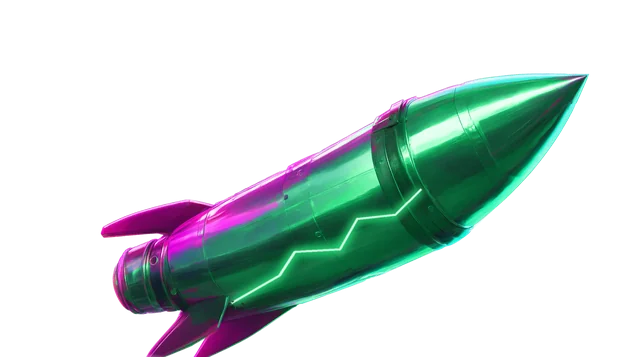
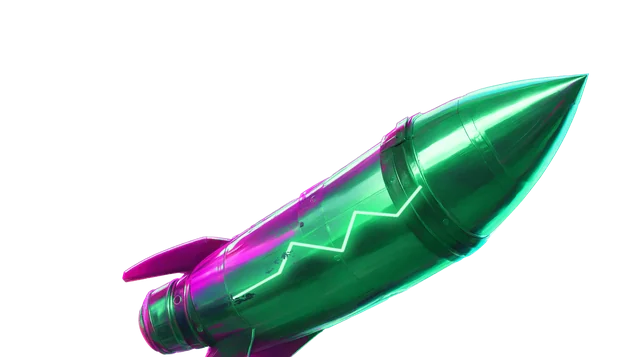
Prototype: a straight rocket axis, joy at x2
The rocket's axis now runs from the nose tip to the centre of the nozzle's rear face, picked
on the pictures. The line fitted on the nose and carried back missed the nozzle (the
generator's hull bends a little in perspective and its nozzle is cut by the picture's edge),
so the flame came out of the nozzle's lower rim and the rocket looked crooked; the empty
rocket now lies on the same axis too (4.7 degrees of turn instead of 10).

The bear raises his fist at x2 (JOY_X) instead of 1.25.

Changed region(s): [[0.1562, 0.1849, 0.9375, 1.0]]

diff --git a/app/proto/scene2.js b/app/proto/scene2.js
@@ -164,7 +164,7 @@ function drawCanopy(g,open,t,hands,top,size){hands=hands||HANDS;top=top||[5,-96]
 
 /* ---------------- the scene ---------------- */
 const BU=.22,RIDE_LEN=160;   // RIDE_LEN: the riding picture's rocket, nozzle to tip, in rocket units
-const ANG={pad:-1,fly:-.76};
+const ANG={pad:-1,fly:-.76},JOY_X=2;   // JOY_X: the multiplier where the bear raises his fist
    // rocket units per pixel of the painted bear pictures (its head about as wide as the rocket)
 function create(cv,opts){
   const ctx=cv.getContext('2d');
@@ -327,7 +327,7 @@ function create(cv,opts){
     const mood=st.phase==='stall'?'scared':st.phase==='wait'?'calm':st.m>1.3?'hype':'calm';
     const pose=st.phase==='stall'?'scared':st.phase==='fly'?(st.m>1.6?'cheer':'grip'):'grip';
     bear.update(dt,t,pose,mood);
-    let face=st.phase==='stall'?'scared':st.phase==='fly'&&st.m>=1.25?'hype':'calm';if(KIT.ride&&!KIT.ride.faces.includes(face))face=st.face||'calm';
+    let face=st.phase==='stall'?'scared':st.phase==='fly'&&st.m>=JOY_X?'hype':'calm';if(KIT.ride&&!KIT.ride.faces.includes(face))face=st.face||'calm';
     if(face!==st.face){st.facePrev=st.face||face;st.face=face;st.faceT=st.phase==='wait'?1:0;
       // the riding pictures change pose inside a motion: a dip, a kick up (the swap happens here), a settle
       if(KIT.ride&&st.phase==='fly')st.pop={t:0,sparked:false}}

diff --git a/app/proto/index.html b/app/proto/index.html
@@ -39,7 +39,7 @@ html,body{height:100%;margin:0;background:#07040f;color:var(--text);font:14px/1.
     <div class="note">Прототип новой графики: раунды идут сами. «Забрать» в полёте — катапульта с парашютом.</div>
   </div>
 </div>
-<script src="scene2.js?v=5"></script>
+<script src="scene2.js?v=6"></script>
 <script>
 (()=>{
 const $=id=>document.getElementById(id),cv=$('cv'),stage=$('stage'),scene=Scene2.create(cv,{kit:"../art/bear/"});

diff --git a/art-kits/tools/bear_kit.py b/art-kits/tools/bear_kit.py
@@ -175,25 +175,6 @@ def restore_convex(src, cut, x0):
     return Image.fromarray(c, 'RGBA')
 
 
-def rocket_axis(cut, tip, guess_tail):
-    """The rocket's true axis in a riding picture: the middle between the upper and the lower edge of the free nose,
-    fitted with a line and carried back. Returns the tail point (axis at the nozzle), the tip and the angle."""
-    A = np.asarray(cut)[..., 3] > 128
-    tip, n0 = np.array(tip, float), np.array(guess_tail, float)
-    L = np.linalg.norm(tip - n0); u = (tip - n0) / L; n = np.array([-u[1], u[0]])
-    def edge(P, s, sign):
-        p = P + u * s; d = 0
-        while d < 320:
-            x, y = p + n * d * sign
-            if x < 0 or y < 0 or x >= A.shape[1] or y >= A.shape[0] or not A[int(y), int(x)]: break
-            d += 1
-        return d
-    ss = list(range(int(L * .64), int(L * .94), 10))
-    k, c = np.polyfit(ss, [(edge(n0, s, 1) - edge(n0, s, -1)) / 2 for s in ss], 1)
-    tail = n0 + n * c; tip2 = n0 + u * L + n * (k * L + c)
-    return tail, tip2, float(np.arctan2(tip2[1] - tail[1], tip2[0] - tail[0]))
-
-
 def scale(im, k):
     return im.resize((max(1, round(im.width * k)), max(1, round(im.height * k))), Image.LANCZOS)
 
@@ -209,7 +190,10 @@ def fade_bottom(im, frac=.16):
 
 # ---------------- the bear riding the rocket ----------------
 RIDE_K = .32                                     # the riding pictures are made 2000 px wide; the game files are 640
-RIDE_TIP, RIDE_TAIL = (1835, 232), (470, 1010)   # rough nose tip and nozzle in the riding pictures (the axis is fitted)
+# the axis runs from the nose tip to the centre of the nozzle's rear face, picked on the pictures: the generator's hull
+# bends a little in perspective and its nozzle is cut by the picture's edge, so a line fitted on the nose misses the nozzle
+RIDE_TIP, RIDE_TAIL = (1840, 232), (472, 1000)
+EMPTY_TIP, EMPTY_TAIL = (1690, 77), (500, 880)
 BOOT = [(850, 772), (1005, 765), (1068, 795), (1082, 880), (1058, 920), (858, 920), (845, 860)]   # the near boot, on the hull
 GREEN = [(0, (2, 14, 8)), (.1, (4, 48, 27)), (.25, (8, 112, 62)), (.42, (18, 176, 98)), (.6, (60, 230, 140)), (.8, (165, 255, 205)), (1, (240, 255, 248))]
 
@@ -282,7 +266,7 @@ def build_ride(kit):
     if not faces:
         return
     ride = {f: cut_ride(os.path.join(SRC, 'ride-' + f + '.webp')) for f in faces}
-    tail, tip, ang = rocket_axis(ride[faces[0]], RIDE_TIP, RIDE_TAIL)
+    tail, tip = np.array(RIDE_TAIL, float), np.array(RIDE_TIP, float); ang = float(np.arctan2(tip[1] - tail[1], tip[0] - tail[0]))
     print('ride axis', tail.round(1), tip.round(1), round(np.degrees(ang), 2), file=sys.stderr)
     for f, im in ride.items():
         scale(greenify(im, tail, tip, BOOT), RIDE_K).save(os.path.join(OUT, 'ride-' + f + '.webp'), 'WEBP', quality=86, method=6)
@@ -292,10 +276,7 @@ def build_ride(kit):
     ep = os.path.join(SRC, 'ride-empty.webp')
     if os.path.exists(ep):
         e = cut_ride(ep)
-        A = np.asarray(e)[..., 3] > 128; ys, xs = np.where(A)
-        tip_g = (xs.max(), ys[xs == xs.max()].mean())
-        tail_g = (xs.min() + 60, ys[xs == xs.min()].mean())       # rough, the axis fit refines it
-        et, ep2, ea = rocket_axis(e, tip_g, tail_g)
+        et, ep2 = np.array(EMPTY_TAIL, float), np.array(EMPTY_TIP, float); ea = float(np.arctan2(ep2[1] - et[1], ep2[0] - et[0]))
         k = np.linalg.norm(tip - tail) / np.linalg.norm(ep2 - et); rot = ang - ea
         c, s_ = np.cos(rot) * k, np.sin(rot) * k
         # output = M @ input + t: the empty rocket scaled and turned onto the riding rocket's axis, tips together
